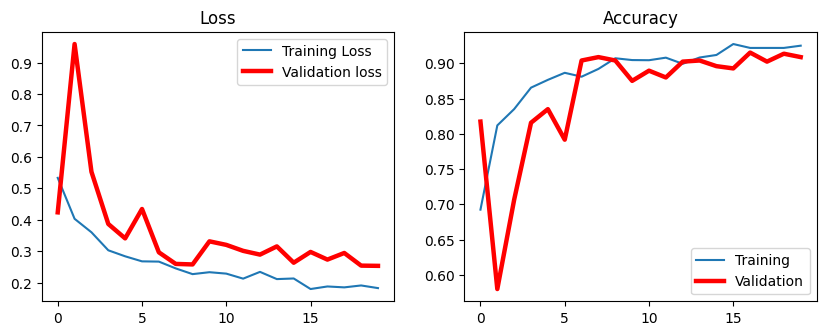
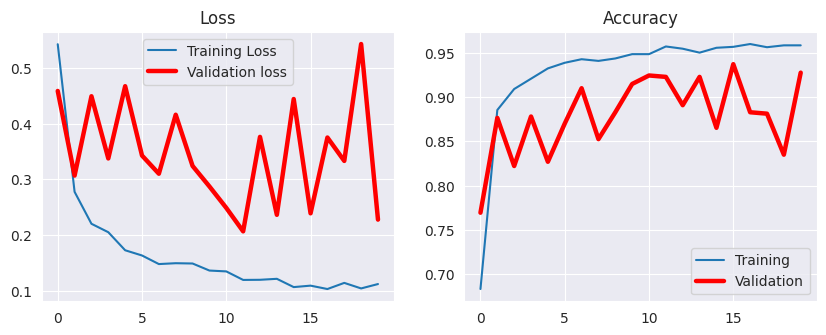
📝Update README.md and add pictures

diff --git a/README.md b/README.md
@@ -31,7 +31,7 @@
 [.....] 3. ใช้ transfer learning  
 
 
-
+<!-- 
 ## result
 <details>
 <summary> 1. ทำ Augmentation เฉพาะ train set และใช้ข้อมูลที่เท่ากัน โดยใช้วิธี Under-sampling (Click เพื่อดูเพิ่มเติม)</summary>
@@ -72,7 +72,7 @@
         
      ภาพที่จะลองมีทั้งหมด 16 ภาพ ประกอบด้วย normal มี 8 ภาพ และ pneumonia มี 8 ภาพ (มาจาก folder val ของชุดข้อมูลนี้)
 
-    *ตัวอย่างการแปลผลในภาพ: p--> pneumonia [0.859] คือ ทำนายว่าเป็น pneumonia โดยมีความน่าจะเป็นอยู่ที่ 0.859 โดยที่ถ้าค่าความน่าจะเป็นมากกว่า 0.5 จะเป็น pneumonia ถ้าน้อยกว่า 0.5 จะเป็น normal*
+    *ตัวอย่างการแปลผลในภาพ: p-> pneumonia [0.859] คือ ทำนายว่าเป็น pneumonia โดยมีความน่าจะเป็นอยู่ที่ 0.859 โดยที่ถ้าค่าความน่าจะเป็นมากกว่า 0.5 จะเป็น pneumonia ถ้าน้อยกว่า 0.5 จะเป็น normal*
 
 
 
@@ -85,25 +85,28 @@
 </details>
 
 
-<!-- <details>
+<details>
 <summary> 2. ใช้ CNN model (ใน 1.) + ใช้ข้อมูลทั้งหมดเลย (Imbalanced) + ทำ Augmentation เฉพาะ train set + class weight (Click เพื่อดูเพิ่มเติม)</summary>
 
 
-</details> -->
+</details>
 
 
 .
 
 .
 
-(ยังมีต่ออีกค่ะ..)
+(ยังมีต่ออีกค่ะ..) -->
 
 ## ตารางสรุป
 
-| No. |      Model         |         Dataset            |    Train set | Test set    | Description | Accuracy | ลองทำนายกับ 16 รูป (normal 8 ภาพ และ pneumonia 8 ภาพ) |
-|-----|:------------------:|---------------------------:|---------:|-----:|------:|------:|------:| 
-| 1.   |    CNN แบบแรก      | ใช้ข้อมูลที่เท่ากัน โดยใช้วิธี Under-sampling | class ละ 1340 ภาพ |  class ละประมาณ 234 ภาพ | ทำ Augmentation เฉพาะ train set | 89.8% | ถูกต้องทุกภาพ
-| 2.   |    CNN แบบแรก + class weight     | ใช้ข้อมูลทั้งหมดเลย (Imbalanced) | normal มี 1341 ภาพ (28.47 %) ส่วน pneumonia มี 3369 ภาพ (71.53 %) | normal มี 234 ภาพ (37.50 %) ส่วน pneumonia มี 390 ภาพ (62.50 %) | ทำ Augmentation เฉพาะ train set และใช้ class weight มากำหนดค่าน้ำหนักให้กับคลาส | 90.9% | ทำนาย pneumonia ถูกต้องทุกภาพ แต่ทำนาย normal ผิดไป 3 ภาพ จาก 8 ภาพ
+| No. |      Model         |         Dataset            |    Train set | Test set    | Description | Accuracy | Precision | Recall |  F1-Score | ลองทำนายกับ 16 รูป*| Note |
+|-----|:------------------:|---------------------------:|---------:|-----:|-----:|-----:|-----:|------:|------:|------:| ------:| 
+| 1.   |    CNN แบบแรก  (ทำ Aug)    | ใช้ข้อมูลที่เท่ากัน โดยใช้วิธี Under-sampling | class ละ 1340 ภาพ |  class ละประมาณ 234 ภาพ | ทำ Augmentation เฉพาะ train set | 84.3% | 77.2% | 98.4% | 86.5% | ทำนาย pneumonia ผิด 1 ภาพ และทำนาย normal ถูกทุกภาพ | -
+| 2.   |   CNN แบบแรก + class weight (ทำ Aug)    | ใช้ข้อมูลทั้งหมดเลย (Imbalanced) | normal มี 1341 ภาพ (28.47 %) ส่วน pneumonia มี 3369 ภาพ (71.53 %) | normal มี 234 ภาพ (37.50 %) ส่วน pneumonia มี 390 ภาพ (62.50 %) | ทำ Augmentation เฉพาะ train set และใช้ class weight มากำหนดค่าน้ำหนักให้กับคลาส | 92.7% | 91.97% | 96.9% | 94% | ทำนาย pneumonia ผิด 1 ภาพ และทำนาย normal ถูกทุกภาพ | -
+| 3.   |    CNN แบบแรก + class weight (ไม่ทำ Aug)    | ใช้ข้อมูลทั้งหมดเลย (Imbalanced) | normal มี 1341 ภาพ (28.47 %) ส่วน pneumonia มี 3369 ภาพ (71.53 %) | normal มี 234 ภาพ (37.50 %) ส่วน pneumonia มี 390 ภาพ (62.50 %) | *ไม่ได้ทำ Augmentation* และใช้ class weight มากำหนดค่าน้ำหนักให้กับคลาส | 76.9% | 73.4% | 98.97% | 84.3% | ทำนาย pneumonia ถูกทุกภาพ และทำนาย normal ผิด 3 ภาพ | -
 
+
+*มี normal 8 ภาพ และ pneumonia 8 ภาพ
 
 
